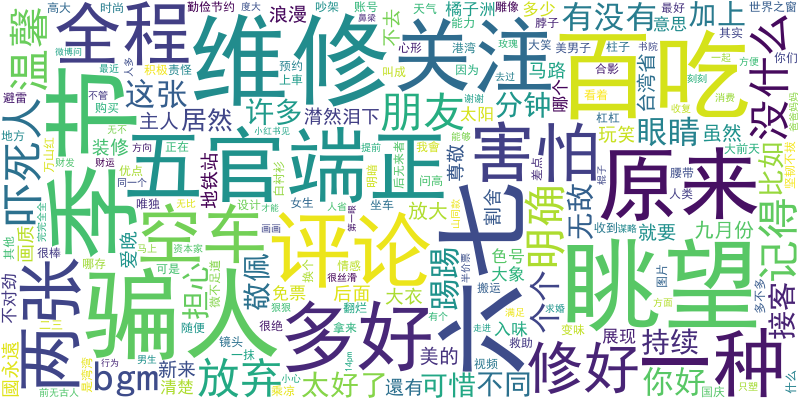
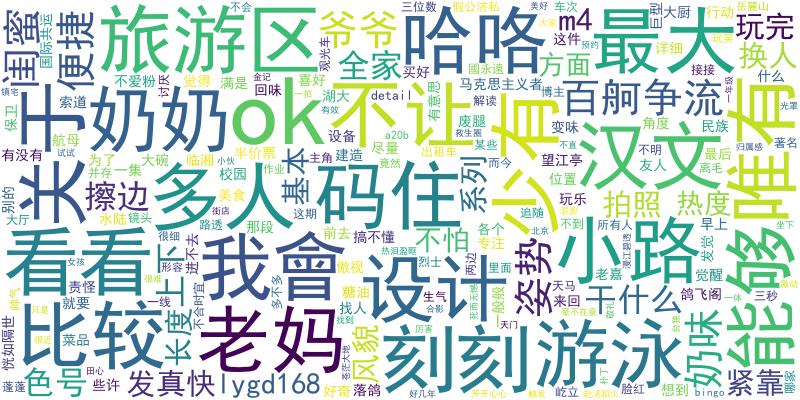
2024/11/7/lmx

diff --git a/Code/vue/src/components/InterestPlace/PlaceDetail.vue b/Code/vue/src/components/InterestPlace/PlaceDetail.vue
@@ -54,6 +54,7 @@ import data2 from "@/json/data2.json";
 import sentiment from "@/json/sentiment.json";
 import topic from '@/json/topic.json';
 import wordcloud from '@/json/wordCloud.json';
+import CloudAPI from "@/api/cloud";
 import danmaku from 'vue3-danmaku';
 import danmuData from '@/json/danmuData.json';
 import {onMounted, ref} from 'vue';
@@ -115,6 +116,10 @@ onMounted(async () => {
     console.error("加载景点数据时出错:", error);
   }
 
+});
+CloudAPI.getCloudAPI("橘子洲").then((res) => {
+  console.log("词云数据:", res);
+  
 });
 
 </script>

diff --git a/Code/HX_culture_back/app01/cloud.py b/Code/HX_culture_back/app01/cloud.py
@@ -31,7 +31,7 @@ def get_cloud(request):
 
         # 生成词云图
     
-    wordcloud = WordCloud(width=800,height=800,font_path='C:\\Windows\\Fonts\\simhei.ttf', max_words=200, max_font_size=100, background_color='white').generate(text)
+    wordcloud = WordCloud(width=800,height=800,font_path='C:\\Windows\\Fonts\\simhei.ttf', max_words=200, max_font_size=100, background_color=None).generate(text)
     image_path = os.path.join('static', 'wordclouds', f"{spot_name}_wordcloud.png")
     wordcloud.to_file(image_path)
     image_url = f"/static/wordclouds/{spot_name}_wordcloud.png"
